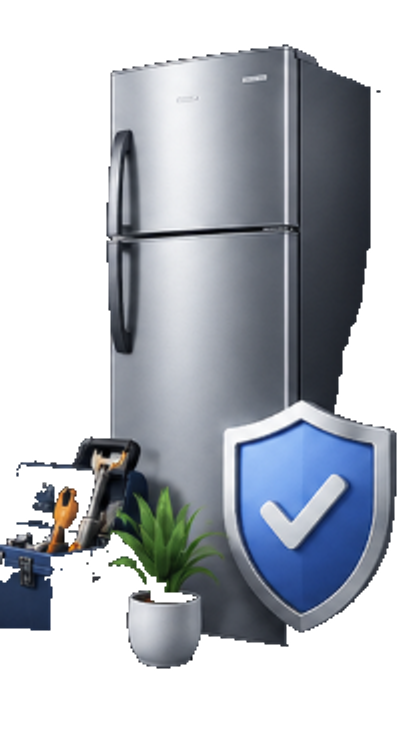
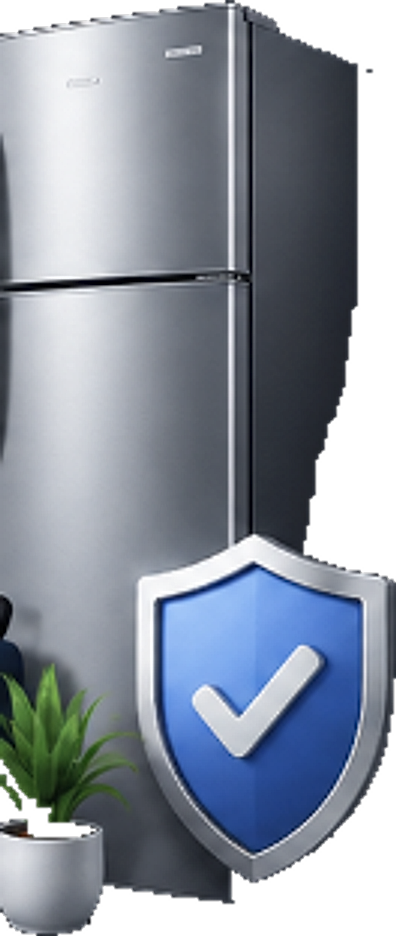
Recut the contact illustration and give it room
It read as a smudge: the toolbox the screenshot had sliced in half was
still in frame, and at the size it rendered there was too little of it to
make out. Cropped to the fridge, shield and plant — the part that
survives being small — trimmed to its own bounds, and scaled with a
sharpen to hold an edge. It renders half again as large, and its shadow
now follows the theme instead of dropping black onto a cream panel.

The softness is the source: a 206px screenshot crop can only go so far. A
full-resolution original would fix it, and the slot takes one without a
code change.

diff --git a/src/components/site/Contact.tsx b/src/components/site/Contact.tsx
@@ -135,7 +135,7 @@ export function Contact() {
                 src={contactPromiseSrc}
                 alt=""
                 aria-hidden
-                className="pointer-events-none absolute -right-2 bottom-0 h-32 w-auto opacity-95 drop-shadow-[0_16px_30px_rgba(0,0,0,0.45)] sm:right-0 sm:h-44 lg:h-56 xl:h-64"
+                className="pointer-events-none absolute -right-2 bottom-0 h-40 w-auto drop-shadow-[0_18px_34px_rgba(23,21,15,0.28)] sm:right-0 sm:h-56 lg:h-72 xl:h-80 dark:drop-shadow-[0_18px_34px_rgba(0,0,0,0.5)]"
               />
             </motion.div>
 
